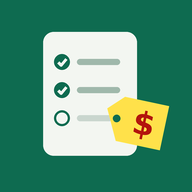
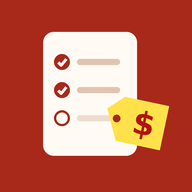
Add files via upload

diff --git a/index.html b/index.html
@@ -3,44 +3,46 @@
 <meta name="viewport" content="width=device-width,initial-scale=1,viewport-fit=cover">
 <meta name="apple-mobile-web-app-capable" content="yes"><meta name="mobile-web-app-capable" content="yes">
 <meta name="apple-mobile-web-app-title" content="Menu de la semaine"><meta name="apple-mobile-web-app-status-bar-style" content="default">
-<meta name="theme-color" content="#f3f6f1" media="(prefers-color-scheme: light)"><meta name="theme-color" content="#111915" media="(prefers-color-scheme: dark)">
+<meta name="theme-color" content="#f6eee0" id="mtc">
 <link rel="manifest" href="manifest.webmanifest">
 <link rel="apple-touch-icon" href="apple-touch-icon.png">
 <link rel="icon" type="image/png" href="icon-192.png">
 <title>Menu de la semaine</title>
 <link rel="preconnect" href="https://fonts.googleapis.com">
-<link rel="stylesheet" href="https://fonts.googleapis.com/css2?family=Bricolage+Grotesque:opsz,wght@12..96,600;12..96,700&family=Figtree:wght@400;500;600&display=swap">
+<link rel="preconnect" href="https://fonts.gstatic.com" crossorigin>
+<link rel="stylesheet" href="https://fonts.googleapis.com/css2?family=Fraunces:ital,opsz,wght@0,9..144,500..800;1,9..144,500..700&family=Figtree:wght@400;500;600;700&display=swap">
 <style>
-/* Le babillard du frigo : la semaine se lit comme le menu collé sur le frigo, un jour par ligne.
-   Un seul élément voyant, l'étiquette jaune des circulaires. Le kraft (sac d'épicerie) marque les restes. */
+/* Le babillard du frigo : la semaine se lit comme le menu collé sur le frigo, un jour par ligne. */
+/* Couleurs d'une carte de restaurant : papier crème, encre espresso, rouge sauce tomate.
+   En mode sombre, l'ardoise du bistro : charbon chaud, craie et safran. Le jaune et le rouge des circulaires restent les seuls éléments criards. */
 :root{
-  --bg:#eff1ec; --card:#ffffff; --ink:#15201a; --mute:#5b6660; --line:#e3e6df; --line2:#cdd3ca; --chip:#eceee8;
-  --accent:#1d5c45; --accent-ink:#ffffff; --soft:#e1ede6;
-  --kraft:#8d5f2a; --kraft-soft:#f3e8d8;
-  --tag:#ffd60a; --tag-ink:#2c2300; --price:#c40f2b;
-  --warn:#8a5a00; --warn-soft:#fbf0d9; --danger:#b3261e; --danger-soft:#fbe7e4;
-  --f-disp:"Bricolage Grotesque","Avenir Next",system-ui,sans-serif;
+  --bg:#f6eee0; --card:#fffbf4; --ink:#2b1d14; --mute:#7a6656; --line:#eadfcd; --line2:#d6c4a9; --chip:#f2e7d5;
+  --accent:#a8281a; --accent-ink:#fffaf2; --soft:#f7e1d6;
+  --kraft:#9a5a12; --kraft-soft:#f3e3c6;
+  --tag:#ffcf1f; --tag-ink:#2b1d00; --price:#c4161c;
+  --warn:#8a5300; --warn-soft:#f9ebcf; --danger:#b3261e; --danger-soft:#fbe4df;
+  --f-disp:"Fraunces","Iowan Old Style","Palatino",Georgia,serif;
   --f-body:"Figtree",system-ui,-apple-system,"Segoe UI",sans-serif;
   --r:18px;
   color-scheme:light;
 }
 @media (prefers-color-scheme:dark){:root:not([data-theme="light"]){
-  --bg:#0e1411; --card:#161e1a; --ink:#e7eee9; --mute:#9ba9a1; --line:#24302a; --line2:#34423b; --chip:#1f2a24;
-  --accent:#72d1a8; --accent-ink:#06231a; --soft:#1a2c24;
-  --kraft:#dcaa6c; --kraft-soft:#2d2417;
-  --tag:#f3cd1c; --tag-ink:#221a00; --price:#a80d24;
-  --warn:#e6b54a; --warn-soft:#33290f; --danger:#ff8a7a; --danger-soft:#3a1f1b; color-scheme:dark}}
+  --bg:#1c1917; --card:#262220; --ink:#f3eadb; --mute:#b3a593; --line:#3a332e; --line2:#544a42; --chip:#312b27;
+  --accent:#f0a04b; --accent-ink:#2a1606; --soft:#3b2b1d;
+  --kraft:#e4b273; --kraft-soft:#352a1d;
+  --tag:#f5c518; --tag-ink:#231a00; --price:#b3121b;
+  --warn:#ebb84f; --warn-soft:#382c12; --danger:#ff917f; --danger-soft:#3d221d; color-scheme:dark}}
 :root[data-theme="dark"]{
-  --bg:#0e1411; --card:#161e1a; --ink:#e7eee9; --mute:#9ba9a1; --line:#24302a; --line2:#34423b; --chip:#1f2a24;
-  --accent:#72d1a8; --accent-ink:#06231a; --soft:#1a2c24;
-  --kraft:#dcaa6c; --kraft-soft:#2d2417;
-  --tag:#f3cd1c; --tag-ink:#221a00; --price:#a80d24;
-  --warn:#e6b54a; --warn-soft:#33290f; --danger:#ff8a7a; --danger-soft:#3a1f1b; color-scheme:dark}
+  --bg:#1c1917; --card:#262220; --ink:#f3eadb; --mute:#b3a593; --line:#3a332e; --line2:#544a42; --chip:#312b27;
+  --accent:#f0a04b; --accent-ink:#2a1606; --soft:#3b2b1d;
+  --kraft:#e4b273; --kraft-soft:#352a1d;
+  --tag:#f5c518; --tag-ink:#231a00; --price:#b3121b;
+  --warn:#ebb84f; --warn-soft:#382c12; --danger:#ff917f; --danger-soft:#3d221d; color-scheme:dark}
 *{box-sizing:border-box}
 [hidden]{display:none!important}
 html{background:var(--bg)}
 body{margin:0;background:var(--bg);color:var(--ink);font:16px/1.45 var(--f-body);padding-inline:16px;-webkit-text-size-adjust:100%}
-h1,h2,h3{font-family:var(--f-disp);font-weight:700;margin:0;text-wrap:balance;letter-spacing:-.015em}
+h1,h2,h3{font-family:var(--f-disp);font-weight:650;margin:0;text-wrap:balance;letter-spacing:-.01em;font-optical-sizing:auto}
 p{margin:0}
 button,input,select,textarea{font:inherit;color:inherit}
 button{cursor:pointer;-webkit-tap-highlight-color:transparent}
@@ -49,7 +51,8 @@ a{color:var(--accent);text-underline-offset:2px}
 .app{max-width:640px;margin:0 auto;padding-block:calc(18px + env(safe-area-inset-top,0px)) calc(108px + env(safe-area-inset-bottom,0px))}
 
 header{display:flex;align-items:flex-end;justify-content:space-between;gap:12px;margin-bottom:18px}
-header h1{font-size:1.85rem;line-height:1;font-weight:800;letter-spacing:-.03em}
+header h1{font-size:2rem;line-height:1;font-weight:700;letter-spacing:-.02em}
+header h1 em{font-style:italic;font-weight:500;color:var(--accent)}
 header .sub{font-size:.76rem;color:var(--mute);margin-top:6px}
 .hbtn{flex:none;min-height:38px;padding:0 15px;border-radius:99px;border:0;background:var(--card);color:var(--accent);font-weight:700;font-size:.88rem}
 
@@ -59,18 +62,18 @@ section{display:flex;flex-direction:column;gap:12px}
 .card.call{box-shadow:inset 0 0 0 2px var(--accent)}
 .small,.acc{color:var(--mute);font-size:.86rem}
 .note{font-size:.88rem;color:var(--warn);background:var(--warn-soft);border-radius:12px;padding:9px 12px}
-.sec{font-family:var(--f-disp);font-size:1.3rem;font-weight:800;letter-spacing:-.02em;margin:18px 4px -2px;display:flex;justify-content:space-between;align-items:baseline}
-.sec span{font:600 .8rem var(--f-body);color:var(--mute);letter-spacing:0}
+.sec{font-family:var(--f-disp);font-size:1.45rem;font-style:italic;font-weight:600;letter-spacing:-.01em;margin:20px 4px -2px;display:flex;justify-content:space-between;align-items:baseline}
+.sec span{font:600 .8rem var(--f-body);font-style:normal;color:var(--mute);letter-spacing:0}
 .empty{padding:26px 18px;text-align:center;color:var(--mute);border:1.5px dashed var(--line2);border-radius:var(--r);display:flex;flex-direction:column;gap:6px}
-.empty b{color:var(--ink);font-family:var(--f-disp);font-size:1.08rem}
+.empty b{color:var(--ink);font-family:var(--f-disp);font-size:1.15rem;font-weight:600}
 
 /* semaine */
-.week h2{font-size:1.4rem;line-height:1.1;font-weight:800}
+.week h2{font-size:1.45rem;line-height:1.1;font-weight:650}
 .grid3{display:grid;grid-template-columns:repeat(3,1fr);gap:8px;align-items:end}
-.tally{flex-direction:row;align-items:center;justify-content:space-between;gap:12px;background:var(--ink);color:var(--bg)}
+.tally{flex-direction:row;align-items:center;justify-content:space-between;gap:12px;background:var(--accent);color:var(--accent-ink)}
 .tally p{flex:1;min-width:0;font-size:.95rem}
-.tally b{font-family:var(--f-disp);font-size:1.35rem;font-weight:800}
-.tally .btn{flex:none;white-space:nowrap;background:var(--tag);color:var(--tag-ink);border:0}
+.tally b{font-family:var(--f-disp);font-size:1.4rem;font-weight:700}
+.tally .btn{flex:none;white-space:nowrap;background:var(--accent-ink);color:var(--accent);border:0}
 .today{background:var(--soft)}
 .today h3{color:var(--accent)}
 .todo{margin:0;padding-left:18px;display:flex;flex-direction:column;gap:4px;font-size:.92rem}
@@ -86,15 +89,18 @@ details.dish>summary::after{margin-top:10px;color:var(--mute)}
 details.dish[open]>summary{padding-bottom:10px}
 .dcol{flex:none;width:42px;display:flex;flex-direction:column;align-items:center;gap:3px;line-height:1;padding:4px 0 6px;border-radius:12px;color:var(--ink)}
 .dcol small{font-size:.7rem;font-weight:700;color:var(--mute)}
-.dcol b{font:800 1.5rem/1 var(--f-disp);font-variant-numeric:tabular-nums;letter-spacing:-.03em}
+.dcol b{font:650 1.6rem/1 var(--f-disp);font-variant-numeric:lining-nums;letter-spacing:-.02em}
 .dcol.off b{color:var(--kraft)}
 .dcol.now{background:var(--accent);color:var(--accent-ink)}
 .dcol.now small{color:var(--accent-ink);opacity:.85}
 .dcol.now b{color:var(--accent-ink)}
 .dmain{flex:1;min-width:0;display:flex;flex-direction:column;gap:6px}
-.dname{font:700 1.08rem/1.22 var(--f-disp);letter-spacing:-.01em;text-wrap:balance}
+.dname{font:600 1.14rem/1.22 var(--f-disp);letter-spacing:-.005em;text-wrap:balance;min-width:0}
+.dline{display:flex;align-items:baseline;gap:8px}
+.lead{flex:1 1 18px;min-width:18px;border-bottom:2px dotted var(--line2);transform:translateY(-5px)}
+.dtime{flex:none;font-size:.8rem;font-weight:600;color:var(--mute);white-space:nowrap;font-variant-numeric:tabular-nums}
 details.dish[open] .dname{color:var(--accent)}
-.dsub{font-size:.86rem;color:var(--mute);line-height:1.35}
+.dsub{font-size:.88rem;color:var(--mute);line-height:1.35;font-style:italic;font-family:var(--f-disp);font-weight:500}
 .flags{display:flex;flex-wrap:wrap;gap:5px}
 .flag{font-size:.72rem;font-weight:600;border-radius:6px;padding:2px 7px;background:var(--chip);color:var(--mute)}
 .flag.a{background:var(--soft);color:var(--accent)}
@@ -121,7 +127,7 @@ details.dish[open] .dname{color:var(--accent)}
 .tag{position:relative;display:inline-flex;align-items:center;gap:8px;max-width:100%;min-width:0;background:var(--tag);color:var(--tag-ink);padding:5px 12px 5px 19px;font-size:.78rem;line-height:1.25;clip-path:polygon(10px 0,100% 0,100% 100%,10px 100%,0 50%)}
 .tag::before{content:"";position:absolute;left:8px;top:50%;width:5px;height:5px;margin-top:-2.5px;border-radius:50%;background:var(--card)}
 .tag .nm{min-width:0;overflow:hidden;display:-webkit-box;-webkit-line-clamp:2;-webkit-box-orient:vertical;font-weight:500}
-.tag b{font:800 1rem var(--f-disp);color:var(--price);white-space:nowrap;font-variant-numeric:tabular-nums;letter-spacing:-.01em}
+.tag b{font:700 1.02rem var(--f-body);color:var(--price);white-space:nowrap;font-variant-numeric:tabular-nums;letter-spacing:-.01em}
 .tag small{white-space:nowrap;font-weight:700;opacity:.7;font-size:.72rem}
 
 /* contrôles */
@@ -185,7 +191,7 @@ ul.ing a{margin-left:10px;text-decoration:none;font-weight:600}
 .item input[type=checkbox]:checked::after{content:"";width:6px;height:12px;border:solid var(--accent-ink);border-width:0 2.5px 2.5px 0;transform:rotate(45deg) translate(-1px,-1px)}
 .item .t{flex:1;min-width:0;display:flex;flex-direction:column;gap:4px}
 .item .t b{font-weight:600;overflow-wrap:anywhere}
-.item .q{font-variant-numeric:tabular-nums;font-weight:700;white-space:nowrap;font-family:var(--f-disp)}
+.item .q{font-variant-numeric:tabular-nums;font-weight:700;white-space:nowrap}
 .item.done .t b{text-decoration:line-through;color:var(--mute);font-weight:500}
 .item.done .tag{opacity:.45}
 .item small{display:block;color:var(--mute);font-size:.78rem}
@@ -242,7 +248,7 @@ body.store .item .q{font-size:1.15rem}
 body.store .item input[type=checkbox]{width:34px;height:34px;border-radius:10px}
 .storebar{position:sticky;top:0;z-index:4;display:flex;gap:12px;align-items:center;background:var(--bg);padding:calc(10px + env(safe-area-inset-top,0px)) 0 10px;margin-top:calc(-18px - env(safe-area-inset-top,0px))}
 .storebar>div{flex:1;display:flex;flex-direction:column;gap:6px}
-.storebar b{font-family:var(--f-disp);font-size:1.25rem;font-weight:800}
+.storebar b{font-family:var(--f-disp);font-size:1.3rem;font-weight:650}
 
 /* formulaires guidés */
 .sugg{display:flex;flex-wrap:wrap;gap:6px}
@@ -266,7 +272,7 @@ button.chip.on{background:var(--accent);color:var(--accent-ink)}
 
 <div class="app">
   <header>
-    <div><h1 id="titre">Menu de la semaine</h1><div class="sub" id="sync">Chargement…</div></div>
+    <div><h1 id="titre">Menu <em>de la semaine</em></h1><div class="sub" id="sync">Chargement…</div></div>
     <button class="hbtn" id="help_btn">Aide</button>
   </header>
 
@@ -1177,8 +1183,8 @@ function carte(it, i, l){
   const flags = [it.lock ? ['Gardé','a'] : null, cur ? [vname(cur[0]),''] : null, fo ? ['Donne des restes','k'] : null, pr ? ['Avec les restes','k'] : null,
     r.pp ? ['Prêt à servir',''] : null, it.rt==='up' ? ['Aimé','a'] : it.rt==='down' ? ['Pas aimé','w'] : null, sto.length ? ['Déjà à la maison','a'] : null].filter(Boolean);
   return `<details class="dish${it.lock?' locked':''}" data-pan="${pk}" ${open?'open':''}><summary>${dcol}
-    <span class="dmain"><span class="dname">${esc(r.n)}</span>
-      <span class="dsub">${esc([souper ? (avec || 'Sans accompagnement') : '', `${tmOf(r)}\u00a0min`].filter(Boolean).join(' · '))}</span>
+    <span class="dmain"><span class="dline"><span class="dname">${esc(r.n)}</span><span class="lead" aria-hidden="true"></span><span class="dtime">${tmOf(r)}\u00a0min</span></span>
+      ${souper && avec ? `<span class="dsub">${esc('avec '+avec.split(' + ').map(lowFirst).join(' et '))}</span>` : ''}
       ${flags.length ? `<span class="flags">${flags.map(([t,c]) => `<span class="flag ${c}">${esc(t)}</span>`).join('')}</span>` : ''}
       ${deals.length?`<span class="tags">${deals.map(d => tagHtml(d.hit)).join('')}</span>`:''}</span></summary>
     <div class="dbody">
@@ -1701,7 +1707,8 @@ function histHtml(){
 }
 function renderReglages(){
   const p = S.p;
-  let h = `<div class="card"><h3>Menu</h3><div class="grid2">
+  let h = `<div class="card"><h3>Apparence</h3><div class="seg" role="group" aria-label="Apparence">${[['auto','Automatique'],['light','Claire'],['dark','Sombre']].map(([v,n]) => `<button class="${(p.theme||'auto')===v?'on':''}" data-a="theme" data-v="${v}">${n}</button>`).join('')}</div><p class="small">Automatique suit le téléphone : la carte crème le jour, l'ardoise le soir.</p></div>
+    <div class="card"><h3>Menu</h3><div class="grid2">
     <label class="f">Soupers par semaine<select data-p="n">${[3,4,5,6,7].map(n=>`<option ${p.n===n?'selected':''}>${n}</option>`).join('')}</select></label>
     <label class="f">Entrées par semaine<select data-p="nEnt">${[0,1,2,3,4,5,6,7].map(n=>`<option ${(p.nEnt||0)===n?'selected':''}>${n}</option>`).join('')}</select></label>
     <label class="f">Desserts par semaine<select data-p="nDes">${[0,1,2,3,4,5,6,7].map(n=>`<option ${(p.nDes||0)===n?'selected':''}>${n}</option>`).join('')}</select></label>
@@ -1738,7 +1745,15 @@ function renderReglages(){
 
 /* ---------- navigation et rendu global ---------- */
 let tab = 'menu';
+/* Apparence : claire par défaut, sombre ou comme le téléphone au choix (Réglages). */
+function applyTheme(){
+  const t = (S.p && S.p.theme) || 'auto', root = document.documentElement;
+  if(t==='auto') delete root.dataset.theme; else root.dataset.theme = t;
+  const dark = t==='dark' || (t==='auto' && window.matchMedia && matchMedia('(prefers-color-scheme: dark)').matches);
+  const m = document.getElementById('mtc'); if(m) m.content = dark ? '#1c1917' : '#f6eee0';
+}
 function render(){
+  applyTheme();
   _AR = _ND = _BL = _AS = null; _DF = new Map();
   ({menu:renderMenu, epicerie:renderEpicerie, maison:renderMaison, recettes:renderRecettes, reglages:renderReglages, aide:renderAide})[tab]();
   ['menu','epicerie','maison','recettes','reglages','aide'].forEach(t => $('#tab-'+t).hidden = t!==tab);
@@ -1867,6 +1882,7 @@ document.addEventListener('click', e => {
     if(ml==='items') assignDays(false);
     save(); render(); return;
   }
+  if(a==='theme'){ S.p.theme = t.dataset.v; save(); render(); return; }
   if(a==='stx_rm'){ e.preventDefault(); const s = t.dataset.s; S.storesx = (S.storesx||[]).filter(x => x!==s); S.stores = S.stores.filter(x => x!==s); save(); render(); return; }
   if(a==='snadd'){ const s = allSpec().find(x => x.t===t.dataset.t); if(s){ S.menu.sn = S.menu.sn||[]; S.menu.sn.push({t:s.t, p:s.p, s:s.s, name:s.t, q:1, u:'un', r:guessRayon(s.t)}); save(); render(); } return; }
   if(a==='snrm'){ (S.menu.sn||[]).splice(+t.dataset.i, 1); save(); render(); return; }
@@ -2042,6 +2058,7 @@ function renderAide(){
 (function init(){
   try{ if('serviceWorker' in navigator && /^https?:/.test(location.protocol)) navigator.serviceWorker.register('sw.js').catch(()=>{}); }catch(e){}
   loadLocal();
+  try{ matchMedia('(prefers-color-scheme: dark)').addEventListener('change', applyTheme); }catch(e){}
   render();
   setSync('Enregistré sur cet appareil');
   try{ if(navigator.storage && navigator.storage.persist) navigator.storage.persist(); }catch(e){}

diff --git a/sw.js b/sw.js
@@ -1,4 +1,4 @@
-const C='menu-semaine-v5';
+const C='menu-semaine-v7';
 self.addEventListener('install',e=>{e.waitUntil(caches.open(C).then(c=>c.addAll(['./','index.html','icon-192.png','apple-touch-icon.png'])));self.skipWaiting()});
 self.addEventListener('activate',e=>e.waitUntil(caches.keys().then(ks=>Promise.all(ks.filter(k=>k!==C).map(k=>caches.delete(k)))).then(()=>clients.claim())));
 self.addEventListener('fetch',e=>{if(e.request.method!=='GET'||new URL(e.request.url).origin!==location.origin)return;e.respondWith(fetch(e.request).then(r=>{const k=r.clone();caches.open(C).then(c=>c.put(e.request,k));return r}).catch(()=>caches.match(e.request)))});
